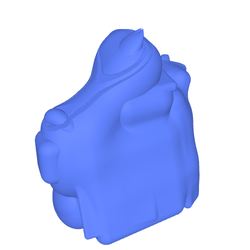
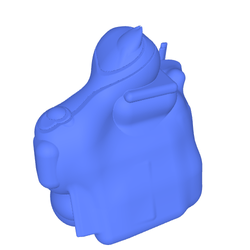
Add photogrammetry experiment results

diff --git a/ExperimentsAndResults.tex b/ExperimentsAndResults.tex
@@ -500,19 +500,28 @@ Take a mesh, occlude part of the geometry, and convert it to an SDF input sample
 
 	\begin{subfigure}{\textwidth}
 		\centering
-		\includegraphics[width=0.13\textwidth]{Images/Photogrammetry Renders/Car Reconstruction.png}
+		\includegraphics[width=0.13\textwidth]{Images/Photogrammetry Renders/Car Reconstruction Whole Dataset.png}
 		\hspace{0.03\textwidth}
 		\includegraphics[width=0.13\textwidth]{Images/Photogrammetry Renders/Rabbit Bell Reconstruction.png}
 		\hspace{0.03\textwidth}
 		\includegraphics[width=0.13\textwidth]{Images/Photogrammetry Renders/Teddy Bear Reconstruction.png}
 
 		\footnotesize
-		\makebox[0.13\textwidth]{IoU 0.8144}
+		\makebox[0.13\textwidth]{IoU 0.7665}
 		\hspace{0.03\textwidth}
-		\makebox[0.13\textwidth]{IoU 0.6828}
+		\makebox[0.13\textwidth]{IoU 0.7252}
 		\hspace{0.03\textwidth}
-		\makebox[0.13\textwidth]{IoU 0.5902}
-		\caption{CSG Reconstruction}
+		\makebox[0.13\textwidth]{IoU 0.6242}
+		\caption{General ShapeNet Model Reconstruction}
+	\end{subfigure}
+
+	\begin{subfigure}{\textwidth}
+		\centering
+		\includegraphics[width=0.13\textwidth]{Images/Photogrammetry Renders/Car Reconstruction Single Category.png}
+
+		\footnotesize
+		\makebox[0.13\textwidth]{IoU 0.8123}
+		\caption{Car Model Reconstruction}
 	\end{subfigure}
 	\caption{}
 	\label{fig:photogrammetry_renders}
